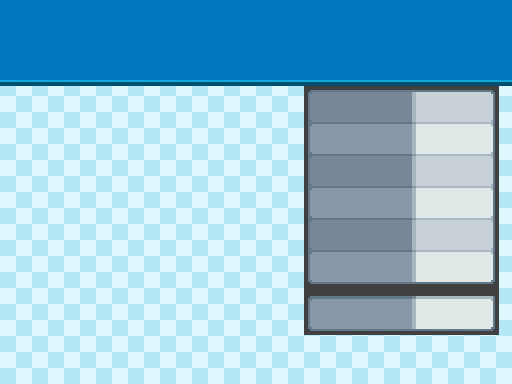
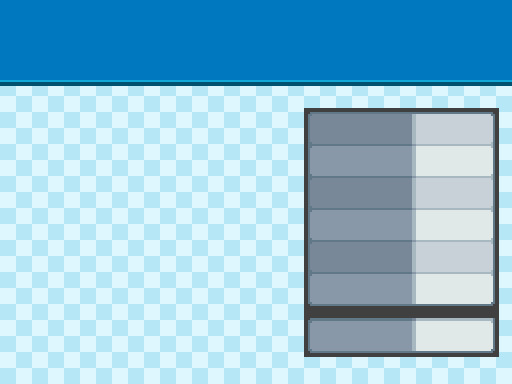
Pokemon Trivia minigame pt. 6

diff --git a/Plugins/Chasm Other/Minigames/PokemonTrivia.rb b/Plugins/Chasm Other/Minigames/PokemonTrivia.rb
@@ -1,6 +1,9 @@
 TRIVIA_MAX_DIFFICULTY = 5
 TRIVIA_CANDY_LEVELS_BY_DIFFICULTY = [10,25,40,55,70]
+TRIVIA_NUMBER_QUESTIONS_BY_DIFFICULTY = [1,1,2,2,3]
 TRIVIA_CANDY_MULTIPLIER = 4
+TRIVIA_QUESTION_TYPES = [:SILHOUETTE, :CHARACTERISTICS, :SIGNATURE_ABILITY, :SIGNATURE_MOVE, :LEVEL_MOVES]
+TRIVIA_LEVEL_MOVES_AMOUNT = 4 # How many level moves to show for that type of trivia question
 
 class PokemonTriviaScene
     def update
@@ -19,7 +22,7 @@ class PokemonTriviaScene
         @sprites["species_silhoette"].y = Graphics.height / 2
         @sprites["species_silhoette"].tone = Tone.new(-255,-255,-255)
 
-        questionSectionHeight = 64
+        questionSectionHeight = 86
         @sprites["question_text"] = BitmapSprite.new(Graphics.width, questionSectionHeight, @viewport)
         @questionTextOverlay = @sprites["question_text"].bitmap
         pbSetSystemFont(@questionTextOverlay)
@@ -42,8 +45,6 @@ class PokemonTriviaScene
         nextQuestionType = nil
         nextQuestionSpecies = nil
 
-        gameVictory = true
-
         @triviaQuestions.each do |nextQuestion|
             nextQuestionType, nextQuestionSpecies = nextQuestion
             presentQuestion(nextQuestionType, nextQuestionSpecies)
@@ -62,15 +63,14 @@ class PokemonTriviaScene
                     break
                 end
             end
-
-            break if gameVictory
         end
 
-        return gameVictory
+        return true
     end
 
     def presentQuestion(nextQuestionType, nextQuestionSpecies)
         @clueOverlay.clear
+        @sprites["species_silhoette"].visible = false
 
         case nextQuestionType
         when :SILHOUETTE
@@ -87,22 +87,24 @@ class PokemonTriviaScene
     end
 
     def setQuestionText(text)
-        base = MessageConfig::LIGHT_TEXT_MAIN_COLOR
-        shadow = MessageConfig::LIGHT_TEXT_SHADOW_COLOR
+        base   = MessageConfig.pbDefaultTextMainColor
+        shadow = MessageConfig.pbDefaultTextShadowColor
         @questionTextOverlay.clear
-        drawFormattedTextEx(@questionTextOverlay,16,24,Graphics.width,text,base,shadow)
+        drawTextEx(@questionTextOverlay, 16, 16, Graphics.width-32, 2, text, base, shadow)
     end
 
     def presentSilhoetteQuestion(questionSpecies)
         @sprites["bg"].setBitmap("Graphics/Pictures/Trivia/triviabg_silhoette")
+        @sprites["species_silhoette"].tone = Tone.new(-255,-255,-255)
+        @sprites["species_silhoette"].visible = true
         @sprites["species_silhoette"].setSpeciesBitmap(questionSpecies)
         setQuestionText(_INTL("Which species has this silhoette?"))
     end
 
     def presentCharacteristicsQuestion(questionSpecies)
         @sprites["bg"].setBitmap("Graphics/Pictures/Trivia/triviabg_characteristics")
-        base = MessageConfig::LIGHT_TEXT_MAIN_COLOR
-        shadow = MessageConfig::LIGHT_TEXT_SHADOW_COLOR
+        base   = MessageConfig.pbDefaultTextMainColor
+        shadow = MessageConfig.pbDefaultTextShadowColor
         species_data = GameData::Species.get(questionSpecies)
 
         clueX = 20
@@ -130,7 +132,7 @@ class PokemonTriviaScene
             end
             tribesDescription = tribes.join(", ")
         end
-        drawTextEx(@clueOverlay, clueX+32, 166, 224, 2, tribesDescription, base, shadow)
+        drawTextEx(@clueOverlay, clueX+32, 166, 240, 3, tribesDescription, base, shadow)
         pbDrawImagePositions(@clueOverlay,[["Graphics/Pictures/icon_tribal_bonus",clueX,166+12]])
 
         # Write the stats
@@ -157,16 +159,35 @@ class PokemonTriviaScene
         setQuestionText(_INTL("Which species has these attributes?"))
     end
 
+    SIGNATURE_COLOR = Color.new(211, 175, 44)
+    SIGNATURE_COLOR_LIGHTER = Color.new(228, 207, 128)
+
     def presentSignatureAbilityQuestion(questionSpecies)
-        setQuestionText(_INTL("This Signature Ability belongs to which species?"))
+        @sprites["bg"].setBitmap("Graphics/Pictures/Trivia/triviabg_ability")
+        base   = MessageConfig.pbDefaultTextMainColor
+        shadow = MessageConfig.pbDefaultTextShadowColor
+        species_data = GameData::Species.get(questionSpecies)
+
+        abilityTextX = 30
+        abilityTextY = 52
+
+        chosenAbility = species_data.signature_abilities.sample
+        chosenAbilityData = GameData::Ability.get(chosenAbility)
+        abilityNameText = "<outln2>" + chosenAbilityData.name + "</outln2>"
+        drawFormattedTextEx(@clueOverlay, abilityTextX, abilityTextY, 450, abilityNameText, SIGNATURE_COLOR_LIGHTER, darkMode? ? shadow : base)
+
+        abilityDescription = addBattleKeywordHighlighting(chosenAbilityData.description, isAbility: true)
+        drawFormattedTextEx(@clueOverlay, abilityTextX, abilityTextY + 34, 450, abilityDescription, base, shadow)
+    
+        setQuestionText(_INTL("This Signature Ability belongs to which fully evolved species?"))
     end
 
     def presentSignatureMoveQuestion(questionSpecies)
-        setQuestionText(_INTL("This Signature Move belongs to which species?"))
+        setQuestionText(_INTL("This Signature Move belongs to which fully evolved species?"))
     end
 
     def presentSignatureMoveQuestion(questionSpecies)
-        setQuestionText(_INTL("Which species learns these moves at these levels?"))
+        setQuestionText(_INTL("Which fully evolved species learns these moves at these levels?"))
     end
 
     def checkAnswer(questionType, questionSpecies)
@@ -243,10 +264,10 @@ class PokemonTrivia
     end
 
     def generatePokemonTriviaQuestions(difficulty)
-        numberOfQuestions = [1,1,2,2,3][difficulty-1]
+        numberOfQuestions = TRIVIA_NUMBER_QUESTIONS_BY_DIFFICULTY[difficulty-1]
 
         # Higher difficulties have more trivia types
-        possibleQuestionTypes = [:SILHOUETTE, :CHARACTERISTICS, :SIGNATURE_ABILITY, :SIGNATURE_MOVE, :LEVEL_MOVES][0...difficulty]
+        possibleQuestionTypes = TRIVIA_QUESTION_TYPES[0...difficulty]
 
         questions = []
         speciesUtilized = []
@@ -260,7 +281,7 @@ class PokemonTrivia
             speciesForQuestion = :PIKACHU
             loop do
                 attempts += 1
-                speciesForQuestion = $PokemonTriviaMetadata[difficulty-1].sample
+                speciesForQuestion = $PokemonTriviaMetadata[questionType][difficulty-1].sample
                 break if !speciesUtilized.include?(speciesForQuestion) || attempts > 3
             end
 
@@ -274,11 +295,20 @@ class PokemonTrivia
     end
 end
 
+# PokemonTriviaMetadata is created as a hash
+# With entries for each type of question, which are arrays covering all difficulty levels
+# Those arrays contain a list of pokemon species IDs
+# E.g. you could access $PokemonTriviaMetadata[:SILHOUETTE][0] to get an array of all of the
+# easiest Pokemon that are eligible for Silhoette trivia question
 def generatePokemonTriviaMetadata
     return if $PokemonTriviaMetadata
-    $PokemonTriviaMetadata = []
-    for score in 0...TRIVIA_MAX_DIFFICULTY
-        $PokemonTriviaMetadata[score] = []
+    $PokemonTriviaMetadata = {}
+
+    TRIVIA_QUESTION_TYPES.each do |questionType|
+        $PokemonTriviaMetadata[questionType] = []
+        for score in 0...TRIVIA_MAX_DIFFICULTY
+            $PokemonTriviaMetadata[questionType][score] = []
+        end
     end
 
     echoln("GENERATING POKEMON TRIVIA METADATA")
@@ -307,7 +337,16 @@ def generatePokemonTriviaMetadata
         # Pokemon introduced in the Chasm Engine are more difficult
         speciesDifficulty += 1 if species.generation == 0
 
-        $PokemonTriviaMetadata[speciesDifficulty].push(species.id)
+        TRIVIA_QUESTION_TYPES.each do |questionType|
+            hasEvolutions = !species.get_evolutions.empty?
+            next if questionType == :SIGNATURE_MOVE && (species.signature_moves.empty? || hasEvolutions)
+            next if questionType == :SIGNATURE_ABILITY && (species.signature_abilities.empty? || hasEvolutions)
+            next if questionType == :LEVEL_MOVES && (species.moves.length < TRIVIA_LEVEL_MOVES_AMOUNT || hasEvolutions)
+            # Push to all difficulties at or above the determined species difficulty
+            for difficultyToPush in speciesDifficulty...TRIVIA_MAX_DIFFICULTY
+                  $PokemonTriviaMetadata[questionType][difficultyToPush].push(species.id)
+            end
+        end
 
         echoln("#{species.name}: #{speciesDifficulty}")
     end
